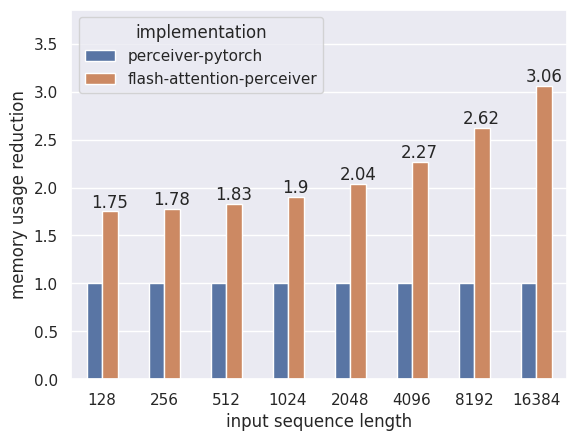
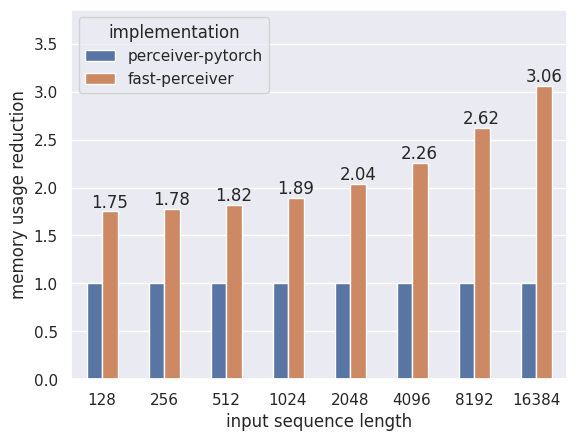
Update benchmarks

diff --git a/run_benchmarks.py b/run_benchmarks.py
@@ -1,5 +1,6 @@
 import argparse
 from contextlib import contextmanager
+from functools import partial
 import gc
 from timeit import default_timer
 import torch
@@ -17,7 +18,7 @@ from fast_perceiver import Perceiver
 sns.set_theme()
 
 
-def build_lucidrains_perceiver(config):
+def build_lucidrains_perceiver(config, **kwargs):
     return LucidrainsPerceiver(
         input_channels=config['input_dim'],
         input_axis=1,
@@ -28,15 +29,17 @@ def build_lucidrains_perceiver(config):
         depth=config['depth'],
         final_classifier_head=False,
         fourier_encode_data=False,
+        **kwargs
     )
 
 
-def build_fast_perceiver(config):
+def build_fast_perceiver(config, **kwargs):
     return Perceiver(
         input_dim=config['input_dim'],
         depth=config['depth'],
         num_latents=config['num_latents'],
-        latent_dim=config['latent_dim']
+        latent_dim=config['latent_dim'],
+        **kwargs
     )
 
 
@@ -82,7 +85,8 @@ benchmark_configs = [
 
 models = {
     'perceiver-pytorch': build_lucidrains_perceiver,
-    'fast-perceiver': build_fast_perceiver
+    'fast-perceiver': build_fast_perceiver,
+    # 'fast-perceiver (parallel MHA)': partial(build_fast_perceiver, use_parallel_mha=True),
 }
 
 
@@ -136,8 +140,8 @@ def benchmark_single(model_factory, config, handle_oom=False):
             data_loader = DataLoader(dataset, batch_size=None)
             batches = list(islice(data_loader, num_batches))
 
-            def run_epoch():
-                for batch in tqdm(batches):
+            def run_epoch(_batches):
+                for batch in _batches:
                     out = model(batch.to(device))
                     out.mean().backward()
                 
@@ -145,10 +149,10 @@ def benchmark_single(model_factory, config, handle_oom=False):
             
             with torch.autocast('cuda'):
                 # First some warmup
-                run_epoch()
+                run_epoch(batches[:1])
 
                 with elapsed_timer() as elapser:
-                    run_epoch()
+                    run_epoch(tqdm(batches))
                     return elapser()
         
         except OutOfMemoryError:
